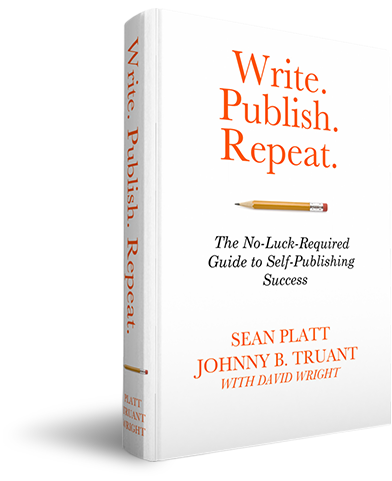
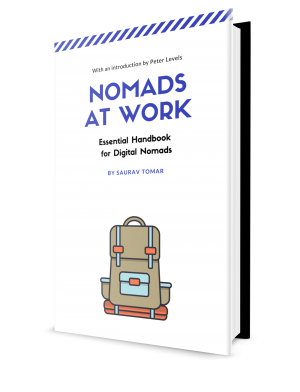
added /nomads-at-work

Changed region(s): [[0.09, 0.0, 1.0, 0.9796]]

diff --git a/nomads-at-work/index.html b/nomads-at-work/index.html
@@ -1,6 +1,8 @@
 <!DOCTYPE html>
 
 <head>
+  <title>Nomads @ Work</title>
[1 lines of base64/hex data omitted]
 <meta charset="utf-8">
 <!--[if IE]><meta http-equiv="X-UA-Compatible" content="IE=edge,chrome=1"><![endif]-->
 <!-- Template Informations-->
@@ -54,6 +56,7 @@
 <!-- Styles -->
 <link href='https://fonts.googleapis.com/css?family=Open+Sans:400,600,700' rel='stylesheet' type='text/css'>
 <link rel="stylesheet" href="css/style.css">
+<link rel="stylesheet" href="css/hint.min.css">
 <!-- Styles End -->
 
 <!-- Javascript -->
@@ -77,16 +80,16 @@
       <!-- Header Left -->
       <div class="header-left">
         <div class="header-title" data-lb="editable-rich-text editable-optional" data-lb-id="headline"  data-lb-name="Header Headline"  data-lb-comment="Enter your text here.">Nomads at Work</div>
-        <div class="title-small" data-lb="editable-rich-text editable-optional" data-lb-id="subheadline" data-lb-name="Header Subheadline" data-lb-comment="Enter your text here.">The No Luck Required Guide to Digital Nomadism</div>
-        <p class="header-text" data-lb="editable-rich-text editable-optional" data-lb-id="header-text-01" data-lb-name="Header Text 01" data-lb-comment="Enter your text here.">Peter Levels and Johnny B. Truant Launched successful businesses and became full-time Nomads in 2013. </p>
+        <div class="title-small" data-lb="editable-rich-text editable-optional" data-lb-id="subheadline" data-lb-name="Header Subheadline" data-lb-comment="Enter your text here.">The Ultimate handbook for Digital Nomads</div>
+        <p class="header-text" data-lb="editable-rich-text editable-optional" data-lb-id="header-text-01" data-lb-name="Header Text 01" data-lb-comment="Enter your text here.">Peter Levels, Rose Lawless & Johnny B. Truant Launched successful businesses and became full-time Nomads </p>
         <p class="book-explains" data-lb="editable-rich-text editable-optional" data-lb-id="header-text-02" data-lb-name="Header Text 02" data-lb-comment="Enter your text here.">This book explains how they did it, and <b>how you can too.</b> </p>
         <div class="learn-box" data-lb="editable-richtext-area editable-optional" data-lb-id="header-feature-text" data-lb-name="Header Feature Text">
           <h2>You’ll Learn:</h2>
           <ul>
-            <li>Why thinking of your books as "products" can turn writing from a hobby into a steady income source.</li>
-            <li>How you can outsell other authors by framing your books – <b>even fiction!</b> –  as a business rather than just art.</li>
-            <li>How a free book, when used in a smart marketing funnel, can earn you a ton of sales.</li>
-            <li>Why book sales are governed by business principles that haven't changed in 50 years ... and aren't going to change anytime soon.</li>
+            <li>How to transition your life and your career to that of a nomad</li>
+            <li>How to navigate the tax & legal complexities that a nomadic lifestyle can bring</li>
+            <li>Approaching wellness, self-care and family life as a nomad</li>
+            <li>How Building a brand can help you put a fair price at what you do</li>
           </ul>
         </div>
       </div>
@@ -95,7 +98,7 @@
       <!-- Header Right -->
       <div class="header-right">
         <div class="book"><img src="img/book.png" class="img-responsive" alt="" data-lb="editable-image editable-optional max-image-size=392" data-lb-id="book-image" data-lb-name="Book Image" data-lb-comment="Recommended size is 392 x 481 pixels."></div>
-        <div class="number"><img src="img/number.png" alt="" data-lb="editable-image editable-optional max-image-size=186" data-lb-id="seal-image" data-lb-name="Book Seal" data-lb-comment="Recommended size is 186 x 187 pixels."></div>
+        <!-- <div class="number"><img src="img/number.png" alt="" data-lb="editable-image editable-optional max-image-size=186" data-lb-id="seal-image" data-lb-name="Book Seal" data-lb-comment="Recommended size is 186 x 187 pixels."></div> -->
         <div class="star"><img src="img/star.png" alt="" data-lb="editable-image editable-optional max-image-size=127" data-lb-id="star-image" data-lb-name="Book Rating Image" data-lb-comment="Recommended size is 127 x 20 pixels."></div>
       </div>
       <!-- Header Right End --> 
@@ -110,15 +113,15 @@
       <div class="left-content" data-lb="editable-rich-text editable-optional" data-lb-id="content-text" data-lb-name="Buy Now Text" data-lb-comment="Enter your text here.">Buy It Now</div>
       <div class="right-content"> 
       <!--icon-->
-      <a href="#" data-lb="editable-link link-only editable-optional" data-lb-id="buy-link-01" data-lb-name="Buy Button 01" data-lb-comment="Recommended size is 149 x 59 pixels."><img src="img/amazon-com.png" alt="" data-lb="editable-image editable-optional max-image-size=149" data-lb-id="button-image-01" data-lb-name="Buy Button Image 01" data-lb-comment="Recommended size is 149 x 59 pixels."></a>
+      <a class="hint--top" aria-label="Coming Soon" href="#" data-lb="editable-link link-only editable-optional" data-lb-id="buy-link-01" data-lb-name="Buy Button 01" data-lb-comment="Recommended size is 149 x 59 pixels."><img src="img/amazon-com.png" alt="" data-lb="editable-image editable-optional max-image-size=149" data-lb-id="button-image-01" data-lb-name="Buy Button Image 01" data-lb-comment="Recommended size is 149 x 59 pixels."></a>
       <!--icon-->
-      <a href="#" data-lb="editable-link link-only editable-optional" data-lb-id="buy-link-02" data-lb-name="Buy Button 02" data-lb-comment="Recommended size is 149 x 59 pixels."><img src="img/amazon-co-uk.png" alt="" data-lb="editable-image editable-optional max-image-size=149" data-lb-id="button-image-02" data-lb-name="Buy Button Image 02" data-lb-comment="Recommended size is 149 x 59 pixels."></a>
+      <a class="hint--top" aria-label="Coming Soon" href="#" data-lb="editable-link link-only editable-optional" data-lb-id="buy-link-02" data-lb-name="Buy Button 02" data-lb-comment="Recommended size is 149 x 59 pixels."><img src="img/amazon-co-uk.png" alt="" data-lb="editable-image editable-optional max-image-size=149" data-lb-id="button-image-02" data-lb-name="Buy Button Image 02" data-lb-comment="Recommended size is 149 x 59 pixels."></a>
       <!--icon-->
-      <a href="#" data-lb="editable-link link-only editable-optional" data-lb-id="buy-link-03" data-lb-name="Buy Button 03" data-lb-comment="Recommended size is 143 x 59 pixels."><img src="img/kobo.png" alt="" data-lb="editable-image editable-optional max-image-size=143" data-lb-id="button-image-03" data-lb-name="Buy Button Image 03" data-lb-comment="Recommended size is 143 x 59 pixels."></a>
+      <a class="hint--top" aria-label="Coming Soon" href="#" data-lb="editable-link link-only editable-optional" data-lb-id="buy-link-03" data-lb-name="Buy Button 03" data-lb-comment="Recommended size is 143 x 59 pixels."><img src="img/kobo.png" alt="" data-lb="editable-image editable-optional max-image-size=143" data-lb-id="button-image-03" data-lb-name="Buy Button Image 03" data-lb-comment="Recommended size is 143 x 59 pixels."></a>
       <!--icon-->
-      <a href="#" data-lb="editable-link link-only editable-optional" data-lb-id="buy-link-04" data-lb-name="Buy Button 04" data-lb-comment="Recommended size is 143 x 59 pixels."><img src="img/nook.png" alt="" data-lb="editable-image editable-optional max-image-size=143" data-lb-id="button-image-04" data-lb-name="Buy Button Image 04" data-lb-comment="Recommended size is 143 x 59 pixels."></a>
+      <a class="hint--top" aria-label="Coming Soon" href="#" data-lb="editable-link link-only editable-optional" data-lb-id="buy-link-04" data-lb-name="Buy Button 04" data-lb-comment="Recommended size is 143 x 59 pixels."><img src="img/nook.png" alt="" data-lb="editable-image editable-optional max-image-size=143" data-lb-id="button-image-04" data-lb-name="Buy Button Image 04" data-lb-comment="Recommended size is 143 x 59 pixels."></a>
       <!--icon-->
-      <a href="#" data-lb="editable-link link-only editable-optional" data-lb-id="buy-link-05" data-lb-name="Buy Button 05" data-lb-comment="Recommended size is 142 x 59 pixels."><img src="img/ibook.png" alt="" data-lb="editable-image editable-optional max-image-size=142" data-lb-id="button-image-05" data-lb-name="Buy Button 05" data-lb-comment="Recommended size is 142 x 59 pixels."></a></div>
+      <a class="hint--top" aria-label="Coming Soon" href="#" data-lb="editable-link link-only editable-optional" data-lb-id="buy-link-05" data-lb-name="Buy Button 05" data-lb-comment="Recommended size is 142 x 59 pixels."><img src="img/ibook.png" alt="" data-lb="editable-image editable-optional max-image-size=142" data-lb-id="button-image-05" data-lb-name="Buy Button 05" data-lb-comment="Recommended size is 142 x 59 pixels."></a></div>
     </div>
   </div>
   <!-- End Orange Box --> 
@@ -129,7 +132,7 @@
         <!--testimonial-->
         <li data-lb="editable-optional" data-lb-id="testimonial-01" data-lb-name="Testimonial 01" data-lb-comment="hide or show this area">
           <div class="publish-report">
-          <img src="img/graphic.png" alt="" data-lb="editable-image editable-optional max-image-size=27" data-lb-id="quote-icon" data-lb-name="Testimonial Icons" data-lb-comment="Recommended size is 27 x 22 pixels."><p class="testimonial-text" data-lb="editable-rich-text editable-optional" data-lb-id="testimonial-text-01" data-lb-name="Testimonial Text 01" data-lb-comment="Enter your testimonial here.">Two of the best in the biz... A gem for aspiring authors.”</p></div>
+          <img src="img/graphic.png" alt="" data-lb="editable-image editable-optional max-image-size=27" data-lb-id="quote-icon" data-lb-name="Testimonial Icons" data-lb-comment="Recommended size is 27 x 22 pixels."><p class="testimonial-text" data-lb="editable-rich-text editable-optional" data-lb-id="testimonial-text-01" data-lb-name="Testimonial Text 01" data-lb-comment="Enter your testimonial here.">This book is a gem for aspiring nomads.”</p></div>
           <div class="img"><img src="img/hugh-howey.jpg" alt="" data-lb="editable-image editable-optional max-image-size=160" data-lb-id="testimonial-image-01" data-lb-name="Testimonial Image 01" data-lb-comment="Recommended size is 160 x 159 pixels."></div>
 
           <p class="title-bottom" data-lb="editable-rich-text editable-optional" data-lb-id="testimonial-name-01" data-lb-name="Testimonial Name 01" data-lb-comment="Enter your testimonial name here.">Hugh Howey</p>
@@ -138,7 +141,7 @@
         <!--testimonial-->
         <li  data-lb="editable-optional" data-lb-id="testimonial-02" data-lb-name="Testimonial 02" data-lb-comment="hide or show this area">
           <div class="publish-report">
-          <img src="img/graphic.png" alt="" data-lb="editable-image editable-optional max-image-size=27" data-lb-id="quote-icon" data-lb-name="Quote Icon" data-lb-comment="Recommended size is 27 x 22 pixels."><p class="testimonial-text" data-lb="editable-rich-text editable-optional" data-lb-id="testimonial-text-02" data-lb-name="Testimonial Text 02" data-lb-comment="Enter your testimonials text here."> It's tough to find more honest and straight- forward marketing advice than what you'll get from these indie authors.”</p></div>
+          <img src="img/graphic.png" alt="" data-lb="editable-image editable-optional max-image-size=27" data-lb-id="quote-icon" data-lb-name="Quote Icon" data-lb-comment="Recommended size is 27 x 22 pixels."><p class="testimonial-text" data-lb="editable-rich-text editable-optional" data-lb-id="testimonial-text-02" data-lb-name="Testimonial Text 02" data-lb-comment="Enter your testimonials text here."> It's tough to find more honest and straight- forward advice than what you'll get from the interviews contained in this book.”</p></div>
           <div class="img"><img src="img/jane-friedman.jpg" alt="" data-lb="editable-image editable-optional max-image-size=161" data-lb-id="testimonial-image-02" data-lb-name="Testimonial Image 02" data-lb-comment="Recommended size is 161 x 159 pixels."></div>
 
           <p class="title-bottom" data-lb="editable-rich-text editable-optional" data-lb-id="testimonial-name-02" data-lb-name="Testimonial Name 02" data-lb-comment="Enter your testimonial name here.">Jane Friedman</p>
@@ -147,7 +150,7 @@
         <!--testimonial-->
         <li  data-lb="editable-optional" data-lb-id="testimonial-03" data-lb-name="Testimonial 03" data-lb-comment="hide or show this area">
           <div class="publish-report">
-          <img src="img/graphic.png" alt="" data-lb="editable-image editable-optional max-image-size=27" data-lb-id="quote-icon" data-lb-name="Quote Icon" data-lb-comment="Recommended size is 27 x 22 pixels."><p class="testimonial-text" data-lb="editable-rich-text editable-optional" data-lb-id="testimonial-text-03" data-lb-name="Testimonial Text 03" data-lb-comment="Enter your testimonials text here.">The most important book on self-publishing I've ever read. </p></div>
+          <img src="img/graphic.png" alt="" data-lb="editable-image editable-optional max-image-size=27" data-lb-id="quote-icon" data-lb-name="Quote Icon" data-lb-comment="Recommended size is 27 x 22 pixels."><p class="testimonial-text" data-lb="editable-rich-text editable-optional" data-lb-id="testimonial-text-03" data-lb-name="Testimonial Text 03" data-lb-comment="Enter your testimonials text here.">The most important book on digital nomadism I've ever read. </p></div>
           <div class="img"><img src="img/karol-gajda.jpg" alt="" data-lb="editable-image editable-optional max-image-size=161" data-lb-id="testimonial-image-03" data-lb-name="Testimonial Image 03" data-lb-comment="Recommended size is 161 x 159 pixels."></div>
 
           <p class="title-bottom" data-lb="editable-rich-text editable-optional" data-lb-id="testimonial-name-03" data-lb-name="Testimonial Name 03" data-lb-comment="Enter your testimonial name here.">Karol Gajda</p>
@@ -156,7 +159,7 @@
         <!--testimonial-->
         <li  data-lb="editable-optional" data-lb-id="testimonial-04" data-lb-name="Testimonial 04" data-lb-comment="hide or show this area">
           <div class="publish-report">
-         <img src="img/graphic.png" alt="" data-lb="editable-image editable-optional max-image-size=27" data-lb-id="quote-icon" data-lb-name="Quote Icon" data-lb-comment="Recommended size is 27 x 22 pixels."><p class="testimonial-text" data-lb="editable-rich-text editable-optional" data-lb-id="testimonial-text-04" data-lb-name="Testimonial Text 04" data-lb-comment="Enter your testimonials text here.">Consider it the most valuable guide book to publishing success.”</p></div>
+         <img src="img/graphic.png" alt="" data-lb="editable-image editable-optional max-image-size=27" data-lb-id="quote-icon" data-lb-name="Quote Icon" data-lb-comment="Recommended size is 27 x 22 pixels."><p class="testimonial-text" data-lb="editable-rich-text editable-optional" data-lb-id="testimonial-text-04" data-lb-name="Testimonial Text 04" data-lb-comment="Enter your testimonials text here.">Consider it the most valuable guide book to sustainable travelling.”</p></div>
           <div class="img"><img src="img/jim-kukral.jpg" alt="" data-lb="editable-image editable-optional max-image-size=161" data-lb-id="testimonial-image-04" data-lb-name="Testimonial Image 04" data-lb-comment="Recommended size is 161 x 159 pixels."></div>
 
           <p class="title-bottom" data-lb="editable-rich-text editable-optional" data-lb-id="testimonial-name-04" data-lb-name="Testimonial Name 04" data-lb-comment="Enter your testimonial name here.">Jim Kukral</p>
@@ -165,7 +168,7 @@
         <!--testimonial-->
         <li class="last"  data-lb="editable-optional" data-lb-id="testimonial-05" data-lb-name="Testimonial 05" data-lb-comment="hide or show this area">
           <div class="publish-report">
-         <img src="img/graphic.png" alt="" data-lb="editable-image editable-optional max-image-size=27" data-lb-id="quote-icon" data-lb-name="Quote Icon" data-lb-comment="Recommended size is 27 x 22 pixels."><p class="testimonial-text" data-lb="editable-rich-text editable-optional" data-lb-id="testimonial-text-05" data-lb-name="Testimonial Text 05" data-lb-comment="Enter your testimonials text here.">I have a pretty popular blog on self- publishing, and I've written a couple of books on the topic … for my money, this is the best book on self- publishing out there.”</p></div>
+         <img src="img/graphic.png" alt="" data-lb="editable-image editable-optional max-image-size=27" data-lb-id="quote-icon" data-lb-name="Quote Icon" data-lb-comment="Recommended size is 27 x 22 pixels."><p class="testimonial-text" data-lb="editable-rich-text editable-optional" data-lb-id="testimonial-text-05" data-lb-name="Testimonial Text 05" data-lb-comment="Enter your testimonials text here.">I have a pretty popular blog on digital nomadism, and I've written a couple of books on the topic … for my money, this is the best book for nomads out there.”</p></div>
           <div class="img"><img src="img/david-gaughran.jpg" alt="" data-lb="editable-image editable-optional max-image-size=161" data-lb-id="testimonial-image-05" data-lb-name="Testimonial Image 05" data-lb-comment="Recommended size is 161 x 159 pixels."></div>
           <p class="title-bottom" data-lb="editable-rich-text editable-optional" data-lb-id="testimonial-name-05" data-lb-name="Testimonial Name 05" data-lb-comment="Enter your testimonial name here.">David Gaughran,</p>
           <div data-lb="editable-rich-text editable-optional" data-lb-id="testimonial-post-05" data-lb-name="Testimonial Source 05" data-lb-comment="Enter your text here.">Author “Let’s Get Digital” and “Let’s Get Visible</div>
@@ -181,21 +184,22 @@
       <!--left author boxes-->
       <div class="left-text" data-lb="editable-optional" data-lb-id="author-left-section" data-lb-name="Authors Left Area" data-lb-comment="hide or show this area">
         <!--author -->
-        <div class="left-img" data-lb="editable-optional" data-lb-id="author-01" data-lb-name="Author Box 01" data-lb-comment="hide or show this author"> 
+        <!-- <div class="left-img" data-lb="editable-optional" data-lb-id="author-01" data-lb-name="Author Box 01" data-lb-comment="hide or show this author"> 
           <img src="img/left-img.jpg" alt="" data-lb="editable-image editable-optional max-image-size=216" data-lb-id="left-author-image" data-lb-name="Author Image 01" data-lb-comment="Recommended size is 216 x 326 pixels.">
           <p data-lb="editable-rich-text editable-optional" data-lb-id="author-name-01" data-lb-name="Author Name 01" data-lb-comment="Enter your text here.">Sean Platt</p>
-        </div>
+        </div> -->
         <!--author -->
         <div class="right-img" data-lb="editable-optional" data-lb-id="author-02" data-lb-name="Author Box 02" data-lb-comment="hide or show this author"> 
-          <img src="img/right-img.jpg" alt="" data-lb="editable-image editable-optional max-image-size=216" data-lb-id="right-author-image" data-lb-name="Author Image 02" data-lb-comment="Recommended size is 216 x 326 pixels.">
-          <p data-lb="editable-rich-text editable-optional" data-lb-id="author-name-02" data-lb-name="Author Name 02" data-lb-comment="Enter your text here.">Johnny B. Truant</p>
+          <img src="img/profile.jpg" alt="" data-lb="editable-image editable-optional max-image-size=216" data-lb-id="right-author-image" data-lb-name="Author Image 02" data-lb-comment="Recommended size is 216 x 326 pixels.">
+          <p data-lb="editable-rich-text editable-optional" data-lb-id="author-name-02" data-lb-name="Author Name 02" data-lb-comment="Enter your text here.">
+            Saurav Tomar</p>
         </div>
       </div>
       <!--right author text-->
       <div class="right-text" data-lb="editable-optional" data-lb-id="author-right-section" data-lb-name="Authors Right Area" data-lb-comment="hide or show this area">
-        <p class="authors-text" data-lb="editable-rich-text editable-optional" data-lb-id="authors-headline" data-lb-name="Authors Headline" data-lb-comment="Enter your headline here.">About the Authors</p>
-        <p class="separately" data-lb="editable-richtext-area editable-optional" data-lb-id="separately-text" data-lb-name="Authors Sub Headline" data-lb-comment="Enter your sub headline here.">Separately and together, Sean Platt and Johnny B. Truant have written and published nearly three million words during the last three booming years of the indie revolution. </p>
-        <div class="small-text">
+        <p class="authors-text" data-lb="editable-rich-text editable-optional" data-lb-id="authors-headline" data-lb-name="Authors Headline" data-lb-comment="Enter your headline here.">About the Author</p>
+        <p class="separately" data-lb="editable-richtext-area editable-optional" data-lb-id="separately-text" data-lb-name="Authors Sub Headline" data-lb-comment="Enter your sub headline here."><a target='_blank' href="https://twitter.com/sauravtom">Saurav</a> is a full time digital nomad, travelling the world while working as a tech consultant specialising in Blockchain and distributed ledger technologies.</p>
+        <!-- <div class="small-text">
           <div class="small-box">
             <p data-lb="editable-richtext-area editable-optional" data-lb-id="small-box" data-lb-name="Authors Column 01" data-lb-comment="Enter your text here.">Through strategic planning and relentless execution, they’ve turned their art into a logical, sustainable business with over 15 independent franchises across 50+ published works.<br><br>
             As two-thirds of the Self- Publishing Podcast (with co-host and <b>Write. Publish. Repeat.</b> contributor David Wright), Sean and Johnny revisit the ever- changing indie landscape each </p>
@@ -204,7 +208,7 @@
             <p data-lb="editable-richtext-area editable-optional" data-lb-id="small-box-right" data-lb-name="Authors Column 02" data-lb-comment="Enter your text here.">week, digging into their own business in front of a live audience, helping to nurture thousands of authors in real time.<br><br>
            Platt and Truant are authors, but what matters most to you is that they are also entrepreneurs who understand how to shape the stories they want to tell into the books (fiction and nonfiction) that readers can’t wait to buy.</p>
           </div>
-        </div>
+        </div> -->
       </div>
 
     </div>
@@ -212,18 +216,18 @@
   <!-- End About the Authors --> 
   
   <!-- Buy Write -->
-  <div class="buy" data-lb="editable-optional" data-lb-id="button-section" data-lb-name="Button Section" data-lb-comment="Hide/show button section">
+  <!-- <div class="buy" data-lb="editable-optional" data-lb-id="button-section" data-lb-name="Button Section" data-lb-comment="Hide/show button section">
     <div class="box">
       <a href="#" data-lb="editable-link link-only" data-lb-id="button" data-lb-name="Button Link" data-lb-comment="Change your button link here.">
         <p><span data-lb="editable-rich-text editable-optional" data-lb-id="box-button-text01" data-lb-name="Button Text 01" data-lb-comment="Enter your box button text here.">Buy<b> Write. Publish. Repeat.</b> on&nbsp;&nbsp;</span><img src="img/footer-amazon-com.png" alt="" data-lb="editable-image editable-optional  max-image-size=172" data-lb-id="buy-image" data-lb-name="Buy Image" data-lb-comment="Enter your logo here. Recommended size is 172 x 33 pixels."> <span data-lb="editable-rich-text editable-optional" data-lb-id="box-button-text02" data-lb-name="Button Text 02" data-lb-comment="Enter your box button text here.">Now!</span></p>
       </a>
     </div>
-  </div>
+  </div> -->
   <!-- End Buy Write --> 
   
   <!--footer-->
   <div class="footer" data-lb="editable-optional" data-lb-id="footer-section" data-lb-name="Footer Section" data-lb-comment="Show or hide this entire section">
-    <p data-lb="editable-rich-text editable-optional" data-lb-id="footer" data-lb-name="Footer" data-lb-comment="Enter your footer text here.">Copyright &copy; 2014. <a href="#">Legal Information</a></p>
+    <p data-lb="editable-rich-text editable-optional" data-lb-id="footer" data-lb-name="Footer" data-lb-comment="Enter your footer text here.">Copyright &copy; 2017. <a href="#">Legal Information</a></p>
   </div>
   <!--End footer --> 
 </div>

diff --git a/nomads-at-work/css/hint.min.css b/nomads-at-work/css/hint.min.css
@@ -1,0 +1,5 @@
+/*! Hint.css - v2.5.0 - 2017-04-23
+* http://kushagragour.in/lab/hint/
+* Copyright (c) 2017 Kushagra Gour */
+
+[class*=hint--]{position:relative;display:inline-block}[class*=hint--]:after,[class*=hint--]:before{position:absolute;-webkit-transform:translate3d(0,0,0);-moz-transform:translate3d(0,0,0);transform:translate3d(0,0,0);visibility:hidden;opacity:0;z-index:1000000;pointer-events:none;-webkit-transition:.3s ease;-moz-transition:.3s ease;transition:.3s ease;-webkit-transition-delay:0s;-moz-transition-delay:0s;transition-delay:0s}[class*=hint--]:hover:after,[class*=hint--]:hover:before{visibility:visible;opacity:1;-webkit-transition-delay:.1s;-moz-transition-delay:.1s;transition-delay:.1s}[class*=hint--]:before{content:'';position:absolute;background:0 0;border:6px solid transparent;z-index:1000001}[class*=hint--]:after{background:#383838;color:#fff;padding:8px 10px;font-size:12px;font-family:"Helvetica Neue",Helvetica,Arial,sans-serif;line-height:12px;white-space:nowrap;text-shadow:0 -1px 0 #000;box-shadow:4px 4px 8px rgba(0,0,0,.3)}[class*=hint--][aria-label]:after{content:attr(aria-label)}[class*=hint--][data-hint]:after{content:attr(data-hint)}[aria-label='']:after,[aria-label='']:before,[data-hint='']:after,[data-hint='']:before{display:none!important}.hint--top-left:before,.hint--top-right:before,.hint--top:before{border-top-color:#383838}.hint--bottom-left:before,.hint--bottom-right:before,.hint--bottom:before{border-bottom-color:#383838}.hint--top:after,.hint--top:before{bottom:100%;left:50%}.hint--top:before{margin-bottom:-11px;left:calc(50% - 6px)}.hint--top:after{-webkit-transform:translateX(-50%);-moz-transform:translateX(-50%);transform:translateX(-50%)}.hint--top:hover:before{-webkit-transform:translateY(-8px);-moz-transform:translateY(-8px);transform:translateY(-8px)}.hint--top:hover:after{-webkit-transform:translateX(-50%) translateY(-8px);-moz-transform:translateX(-50%) translateY(-8px);transform:translateX(-50%) translateY(-8px)}.hint--bottom:after,.hint--bottom:before{top:100%;left:50%}.hint--bottom:before{margin-top:-11px;left:calc(50% - 6px)}.hint--bottom:after{-webkit-transform:translateX(-50%);-moz-transform:translateX(-50%);transform:translateX(-50%)}.hint--bottom:hover:before{-webkit-transform:translateY(8px);-moz-transform:translateY(8px);transform:translateY(8px)}.hint--bottom:hover:after{-webkit-transform:translateX(-50%) translateY(8px);-moz-transform:translateX(-50%) translateY(8px);transform:translateX(-50%) translateY(8px)}.hint--right:before{border-right-color:#383838;margin-left:-11px;margin-bottom:-6px}.hint--right:after{margin-bottom:-14px}.hint--right:after,.hint--right:before{left:100%;bottom:50%}.hint--right:hover:after,.hint--right:hover:before{-webkit-transform:translateX(8px);-moz-transform:translateX(8px);transform:translateX(8px)}.hint--left:before{border-left-color:#383838;margin-right:-11px;margin-bottom:-6px}.hint--left:after{margin-bottom:-14px}.hint--left:after,.hint--left:before{right:100%;bottom:50%}.hint--left:hover:after,.hint--left:hover:before{-webkit-transform:translateX(-8px);-moz-transform:translateX(-8px);transform:translateX(-8px)}.hint--top-left:after,.hint--top-left:before{bottom:100%;left:50%}.hint--top-left:before{margin-bottom:-11px;left:calc(50% - 6px)}.hint--top-left:after{-webkit-transform:translateX(-100%);-moz-transform:translateX(-100%);transform:translateX(-100%);margin-left:12px}.hint--top-left:hover:before{-webkit-transform:translateY(-8px);-moz-transform:translateY(-8px);transform:translateY(-8px)}.hint--top-left:hover:after{-webkit-transform:translateX(-100%) translateY(-8px);-moz-transform:translateX(-100%) translateY(-8px);transform:translateX(-100%) translateY(-8px)}.hint--top-right:after,.hint--top-right:before{bottom:100%;left:50%}.hint--top-right:before{margin-bottom:-11px;left:calc(50% - 6px)}.hint--top-right:after{-webkit-transform:translateX(0);-moz-transform:translateX(0);transform:translateX(0);margin-left:-12px}.hint--top-right:hover:after,.hint--top-right:hover:before{-webkit-transform:translateY(-8px);-moz-transform:translateY(-8px);transform:translateY(-8px)}.hint--bottom-left:after,.hint--bottom-left:before{top:100%;left:50%}.hint--bottom-left:before{margin-top:-11px;left:calc(50% - 6px)}.hint--bottom-left:after{-webkit-transform:translateX(-100%);-moz-transform:translateX(-100%);transform:translateX(-100%);margin-left:12px}.hint--bottom-left:hover:before{-webkit-transform:translateY(8px);-moz-transform:translateY(8px);transform:translateY(8px)}.hint--bottom-left:hover:after{-webkit-transform:translateX(-100%) translateY(8px);-moz-transform:translateX(-100%) translateY(8px);transform:translateX(-100%) translateY(8px)}.hint--bottom-right:after,.hint--bottom-right:before{top:100%;left:50%}.hint--bottom-right:before{margin-top:-11px;left:calc(50% - 6px)}.hint--bottom-right:after{-webkit-transform:translateX(0);-moz-transform:translateX(0);transform:translateX(0);margin-left:-12px}.hint--bottom-right:hover:after,.hint--bottom-right:hover:before{-webkit-transform:translateY(8px);-moz-transform:translateY(8px);transform:translateY(8px)}.hint--large:after,.hint--medium:after,.hint--small:after{white-space:normal;line-height:1.4em;word-wrap:break-word}.hint--small:after{width:80px}.hint--medium:after{width:150px}.hint--large:after{width:300px}.hint--error:after{background-color:#b34e4d;text-shadow:0 -1px 0 #592726}.hint--error.hint--top-left:before,.hint--error.hint--top-right:before,.hint--error.hint--top:before{border-top-color:#b34e4d}.hint--error.hint--bottom-left:before,.hint--error.hint--bottom-right:before,.hint--error.hint--bottom:before{border-bottom-color:#b34e4d}.hint--error.hint--left:before{border-left-color:#b34e4d}.hint--error.hint--right:before{border-right-color:#b34e4d}.hint--warning:after{background-color:#c09854;text-shadow:0 -1px 0 #6c5328}.hint--warning.hint--top-left:before,.hint--warning.hint--top-right:before,.hint--warning.hint--top:before{border-top-color:#c09854}.hint--warning.hint--bottom-left:before,.hint--warning.hint--bottom-right:before,.hint--warning.hint--bottom:before{border-bottom-color:#c09854}.hint--warning.hint--left:before{border-left-color:#c09854}.hint--warning.hint--right:before{border-right-color:#c09854}.hint--info:after{background-color:#3986ac;text-shadow:0 -1px 0 #1a3c4d}.hint--info.hint--top-left:before,.hint--info.hint--top-right:before,.hint--info.hint--top:before{border-top-color:#3986ac}.hint--info.hint--bottom-left:before,.hint--info.hint--bottom-right:before,.hint--info.hint--bottom:before{border-bottom-color:#3986ac}.hint--info.hint--left:before{border-left-color:#3986ac}.hint--info.hint--right:before{border-right-color:#3986ac}.hint--success:after{background-color:#458746;text-shadow:0 -1px 0 #1a321a}.hint--success.hint--top-left:before,.hint--success.hint--top-right:before,.hint--success.hint--top:before{border-top-color:#458746}.hint--success.hint--bottom-left:before,.hint--success.hint--bottom-right:before,.hint--success.hint--bottom:before{border-bottom-color:#458746}.hint--success.hint--left:before{border-left-color:#458746}.hint--success.hint--right:before{border-right-color:#458746}.hint--always:after,.hint--always:before{opacity:1;visibility:visible}.hint--always.hint--top:before{-webkit-transform:translateY(-8px);-moz-transform:translateY(-8px);transform:translateY(-8px)}.hint--always.hint--top:after{-webkit-transform:translateX(-50%) translateY(-8px);-moz-transform:translateX(-50%) translateY(-8px);transform:translateX(-50%) translateY(-8px)}.hint--always.hint--top-left:before{-webkit-transform:translateY(-8px);-moz-transform:translateY(-8px);transform:translateY(-8px)}.hint--always.hint--top-left:after{-webkit-transform:translateX(-100%) translateY(-8px);-moz-transform:translateX(-100%) translateY(-8px);transform:translateX(-100%) translateY(-8px)}.hint--always.hint--top-right:after,.hint--always.hint--top-right:before{-webkit-transform:translateY(-8px);-moz-transform:translateY(-8px);transform:translateY(-8px)}.hint--always.hint--bottom:before{-webkit-transform:translateY(8px);-moz-transform:translateY(8px);transform:translateY(8px)}.hint--always.hint--bottom:after{-webkit-transform:translateX(-50%) translateY(8px);-moz-transform:translateX(-50%) translateY(8px);transform:translateX(-50%) translateY(8px)}.hint--always.hint--bottom-left:before{-webkit-transform:translateY(8px);-moz-transform:translateY(8px);transform:translateY(8px)}.hint--always.hint--bottom-left:after{-webkit-transform:translateX(-100%) translateY(8px);-moz-transform:translateX(-100%) translateY(8px);transform:translateX(-100%) translateY(8px)}.hint--always.hint--bottom-right:after,.hint--always.hint--bottom-right:before{-webkit-transform:translateY(8px);-moz-transform:translateY(8px);transform:translateY(8px)}.hint--always.hint--left:after,.hint--always.hint--left:before{-webkit-transform:translateX(-8px);-moz-transform:translateX(-8px);transform:translateX(-8px)}.hint--always.hint--right:after,.hint--always.hint--right:before{-webkit-transform:translateX(8px);-moz-transform:translateX(8px);transform:translateX(8px)}.hint--rounded:after{border-radius:4px}.hint--no-animate:after,.hint--no-animate:before{-webkit-transition-duration:0s;-moz-transition-duration:0s;transition-duration:0s}.hint--bounce:after,.hint--bounce:before{-webkit-transition:opacity .3s ease,visibility .3s ease,-webkit-transform .3s cubic-bezier(.71,1.7,.77,1.24);-moz-transition:opacity .3s ease,visibility .3s ease,-moz-transform .3s cubic-bezier(.71,1.7,.77,1.24);transition:opacity .3s ease,visibility .3s ease,transform .3s cubic-bezier(.71,1.7,.77,1.24)}
